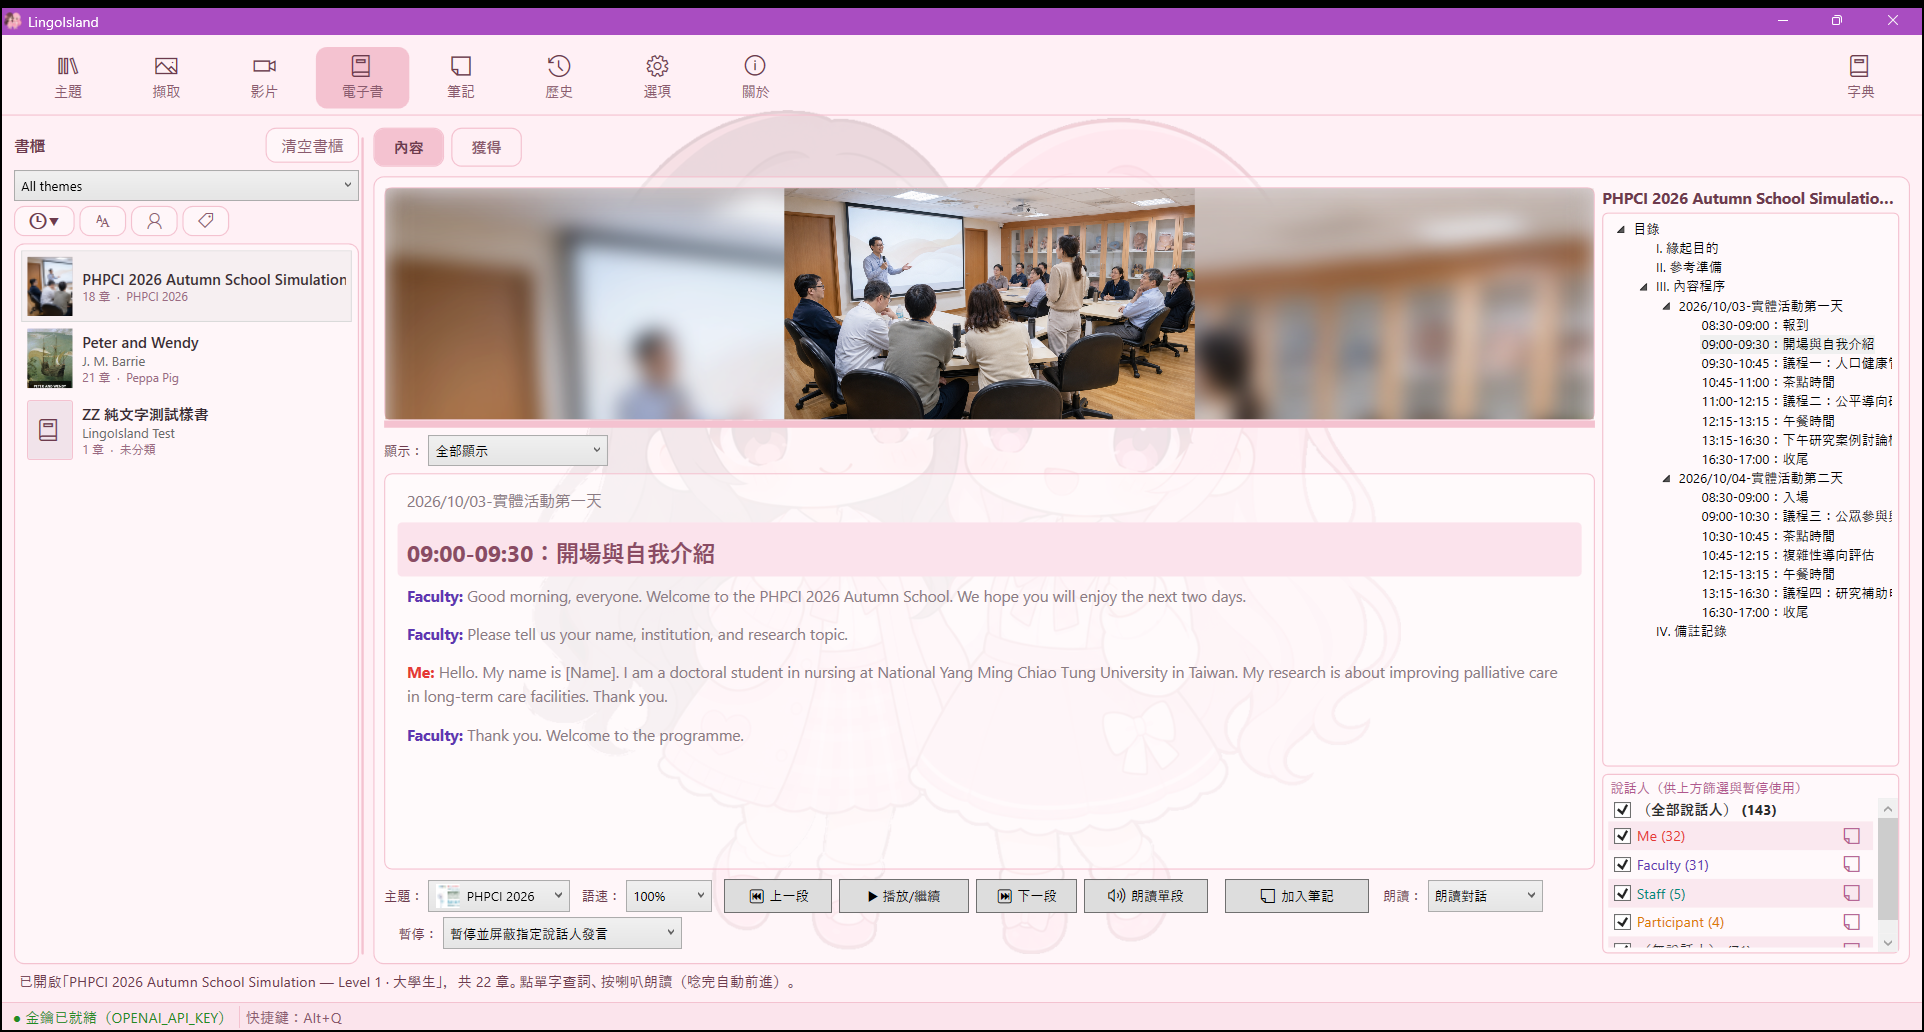
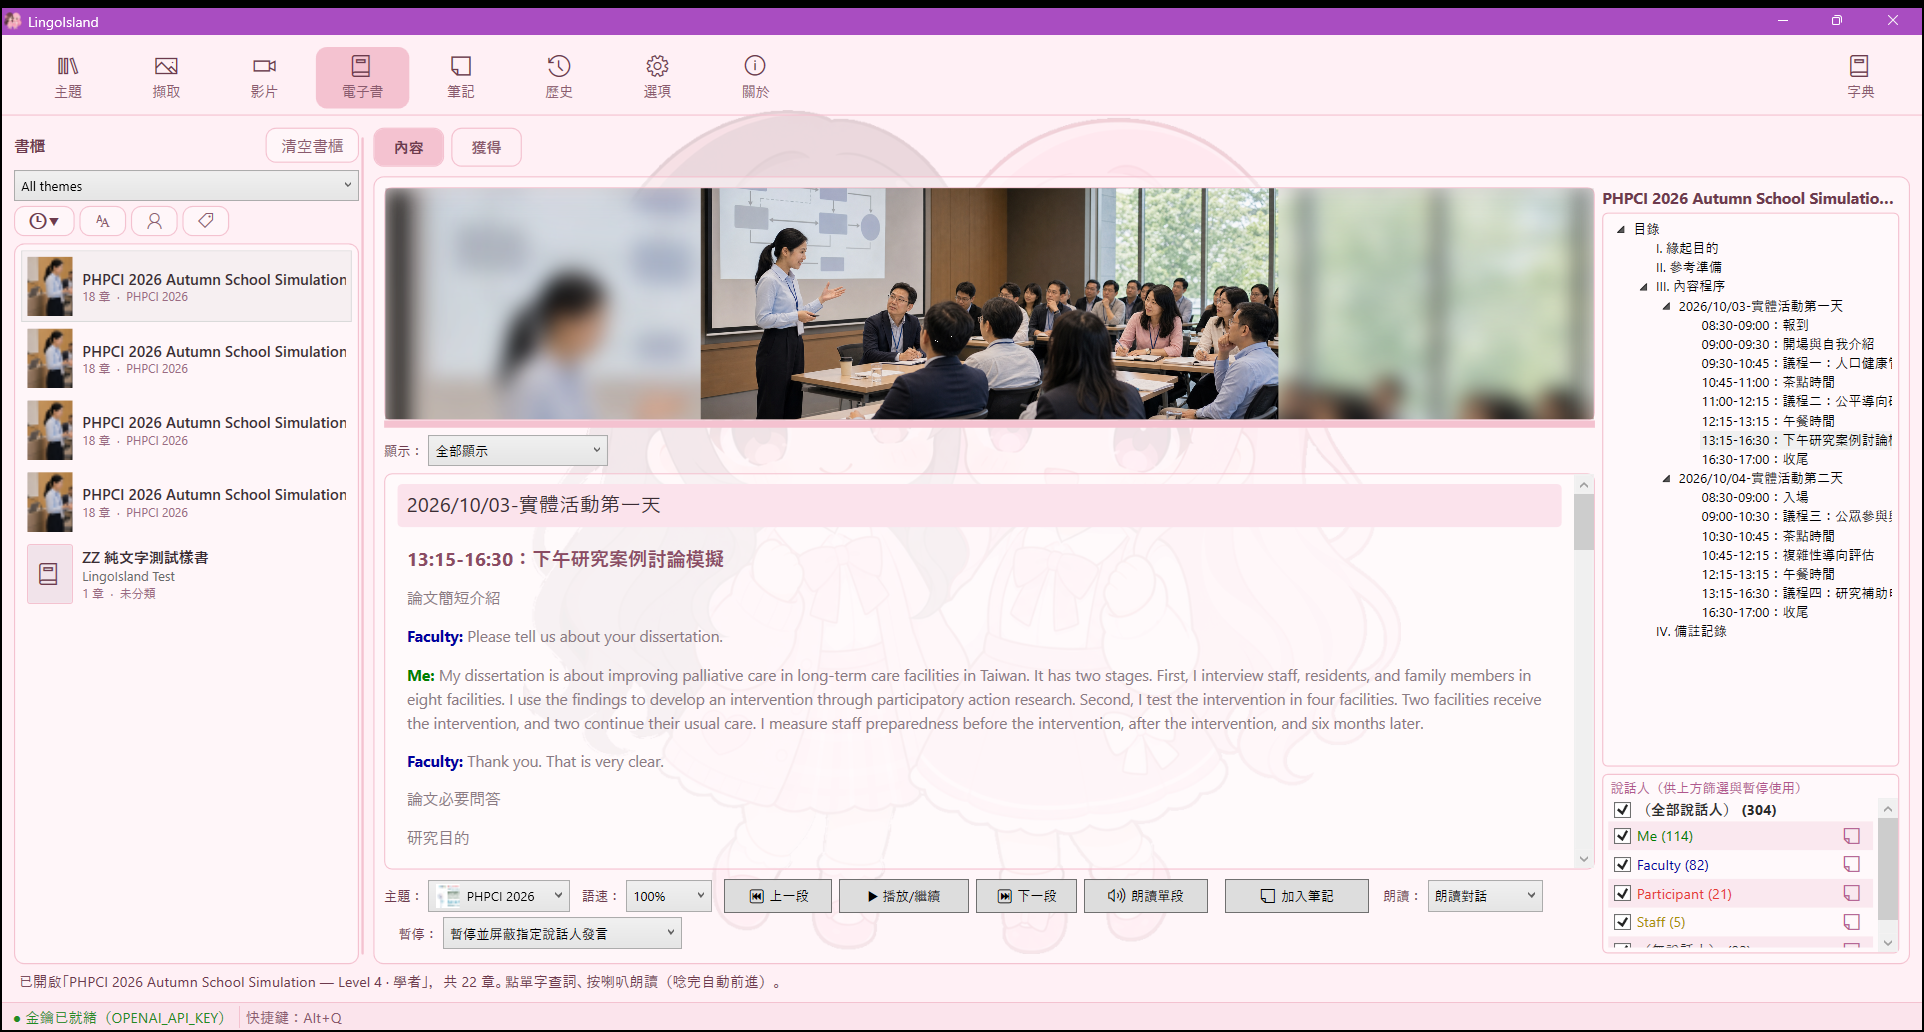
test(ebook): UIA 驗收腳本相容打包成品啟動路徑 (#277)
* docs(design): 部署作法載明 UIA 取窗工法與 dev/成品雙 build 驗收

Refs #270

* test(ebook): UIA 腳本改以具主視窗之行程取窗，相容打包成品

- uiaCommon.ps1 新增 Start-AppAndGetWindow：輪詢「行程名 LingoIsland 且具主視窗」者、
  自該視窗反查 pid；不再以 Start-Process -PassThru 回傳之行程為錨（Velopack 成品之 exe
  為外殼、另起真正 app 行程後自身退出，以其為錨恆逾時失敗）。
- uiaCommon.ps1 新增 Set-WindowMaximized：App 會於測試中套用 ui-state.json 之保存尺寸把
  視窗還原變小（實撞 1938x1040 → 910x647），中欄控制列由 2 列換行成 5 列吃掉閱讀區高度，
  沿用重排前基準即量出「圖塊縮小、閱讀區也縮小」之假 FAIL。
- captureEbookSplitter.ps1：量測基準抽為可重取；拖曳每輪加視窗尺寸守衛（有變即重新最大化
  並重取基準）；拖曳段補同幅度重試 3 輪（實體滑鼠拖曳偶有落空）；量測前再驗尺寸、失真即中止。
- captureEbookChapterHop.ps1：補最大化；書卡先 ScrollIntoView 再取座標（樣書排在清單末端、
  offscreen 時 UIA 仍給虛擬座標，點下去落在別的控件）；命中斷言失敗訊息補診斷資訊。
- 兩支腳本命中斷言改用自視窗反查之 pid；收尾去除與行程名掃殺重複的 $proc.Kill()。

驗收：兩支腳本對 dev build 與打包成品（build/pack.ps1 → Portable.zip）各跑一次，四趟全綠。

Refs #270

diff --git a/docs/design.md b/docs/design.md
@@ -680,7 +680,7 @@ ADM -.->|"setWi自訂Usr啟動結束常駐"| SYS
 
 > 建置／測試／部署指令（繼承 modTechStack；短節註＋單行決策，不放部署圖）。
 
-* [sysLingoIsland系統]：繼承 modTechStack ＝ WinApp——**建置指令** `dotnet build -c Release`、**發佈指令** `dotnet publish sysLingoIsland -c Release -r win-x64 --self-contained -p:Version={VERSION} -o publish`（**不用** `PublishSingleFile`——Velopack 打包以目錄為單位、官方明示不需單檔；csproj 之 `IncludeNativeLibrariesForSelfExtract=true` 對非單檔發佈惰性無害、留置以保單檔路徑健康，Issue #49/#51）、**打包指令** `vpk pack --packId LingoIsland --packVersion {VERSION} --packDir publish --mainExe LingoIsland.exe --icon sysLingoIsland\assets\app.ico --outputDir Releases`（`dotnet tool` `vpk`；`--icon` 使 `Setup.exe` 及其開始功能表／桌面捷徑、解除安裝項皆帶**應用圖示**〔Issue #177：安裝檔須按業界常規帶圖示，非 Velopack 預設圖示；安裝後主程式 `LingoIsland.exe` 圖示另由 csproj `<ApplicationIcon>` 提供、兩者一致〕；產 `Setup.exe`／`Portable.zip`／`full.nupkg`〔有前版基準時另產 delta〕／`releases.win.json`；**publish＋pack 已固化於 `build\pack.ps1`**〔讀 VERSION、發佈、帶 `--icon` 打包〕）、**測試指令** `dotnet test`（單元／模組層）＋ `pwsh test/scripts/captureEbookSplitter.ps1`（電子書場景圖分隔線拖曳之桌面 UIA 機判）＋ `pwsh test/scripts/captureEbookChapterHop.ps1`（章界雙擊換章之實機接線驗證：植入兩章樣書、以真實鍵盤事件驗章界雙擊換章；判定本體之全分支歸單元測試 `ChapterHopDeciderTests`）；前者為桌面 UIA 機判＋手冊證據擷取管線（兩者共用 `test/scripts/uiaCommon.ps1` 之 P/Invoke 與前景／截圖工法：自啟新實例、`%APPDATA%` 起手備份 `finally` 還原、`PrintWindow` 直取視窗表面、以 UIA `BoundingRectangle` 量測拖曳前後之圖塊／閱讀區／篩選列高度並斷言消長；產出最終態證據圖 `docs/manual-assets/ebook-splitter-drag.png`）、**部署方法** GitHub Release 掛上述打包資產（即自動更新之更新源；新使用者跑 `Setup.exe`，既有安裝啟動時自動更新）。
+* [sysLingoIsland系統]：繼承 modTechStack ＝ WinApp——**建置指令** `dotnet build -c Release`、**發佈指令** `dotnet publish sysLingoIsland -c Release -r win-x64 --self-contained -p:Version={VERSION} -o publish`（**不用** `PublishSingleFile`——Velopack 打包以目錄為單位、官方明示不需單檔；csproj 之 `IncludeNativeLibrariesForSelfExtract=true` 對非單檔發佈惰性無害、留置以保單檔路徑健康，Issue #49/#51）、**打包指令** `vpk pack --packId LingoIsland --packVersion {VERSION} --packDir publish --mainExe LingoIsland.exe --icon sysLingoIsland\assets\app.ico --outputDir Releases`（`dotnet tool` `vpk`；`--icon` 使 `Setup.exe` 及其開始功能表／桌面捷徑、解除安裝項皆帶**應用圖示**〔Issue #177：安裝檔須按業界常規帶圖示，非 Velopack 預設圖示；安裝後主程式 `LingoIsland.exe` 圖示另由 csproj `<ApplicationIcon>` 提供、兩者一致〕；產 `Setup.exe`／`Portable.zip`／`full.nupkg`〔有前版基準時另產 delta〕／`releases.win.json`；**publish＋pack 已固化於 `build\pack.ps1`**〔讀 VERSION、發佈、帶 `--icon` 打包〕）、**測試指令** `dotnet test`（單元／模組層）＋ `pwsh test/scripts/captureEbookSplitter.ps1`（電子書場景圖分隔線拖曳之桌面 UIA 機判）＋ `pwsh test/scripts/captureEbookChapterHop.ps1`（章界雙擊換章之實機接線驗證：植入兩章樣書、以真實鍵盤事件驗章界雙擊換章；判定本體之全分支歸單元測試 `ChapterHopDeciderTests`）；前者為桌面 UIA 機判＋手冊證據擷取管線（兩者共用 `test/scripts/uiaCommon.ps1` 之 P/Invoke 與前景／截圖工法：**自啟新實例後以 `Start-AppAndGetWindow` 輪詢「行程名 `LingoIsland` 且具主視窗」者取得受測視窗、並自該視窗反查 pid 供命中斷言**〔**不得以 `Start-Process -PassThru` 回傳之行程為錨**——Velopack 打包成品之 `LingoIsland.exe` 為外殼、另起真正 app 行程後自身即退出，以其為錨恆逾時失敗；dev build 亦相容此法〕、`%APPDATA%` 起手備份 `finally` 還原、`PrintWindow` 直取視窗表面、以 UIA `BoundingRectangle` 量測拖曳前後之圖塊／閱讀區／篩選列高度並斷言消長；產出最終態證據圖 `docs/manual-assets/ebook-splitter-drag.png`）；**兩支腳本皆須以 `-ExePath` 對「dev build」與「打包成品」各跑一次皆綠**（後者先 `build\pack.ps1`、解開 `Releases\*Portable.zip` 取其 `LingoIsland.exe`），使驗收對真正交付之成品有效、非僅對 dev build（Issue #270）、**部署方法** GitHub Release 掛上述打包資產（即自動更新之更新源；新使用者跑 `Setup.exe`，既有安裝啟動時自動更新）。
 * **方案層**：於 Windows 11 實機以 Velopack 安裝版跑 README 全走驗收與契約 invariant 驗證。
 
 # III. 規格指標
